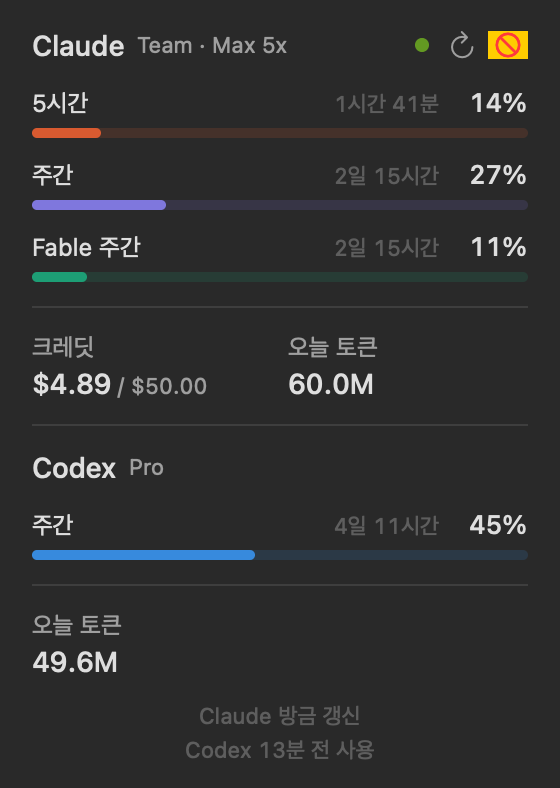
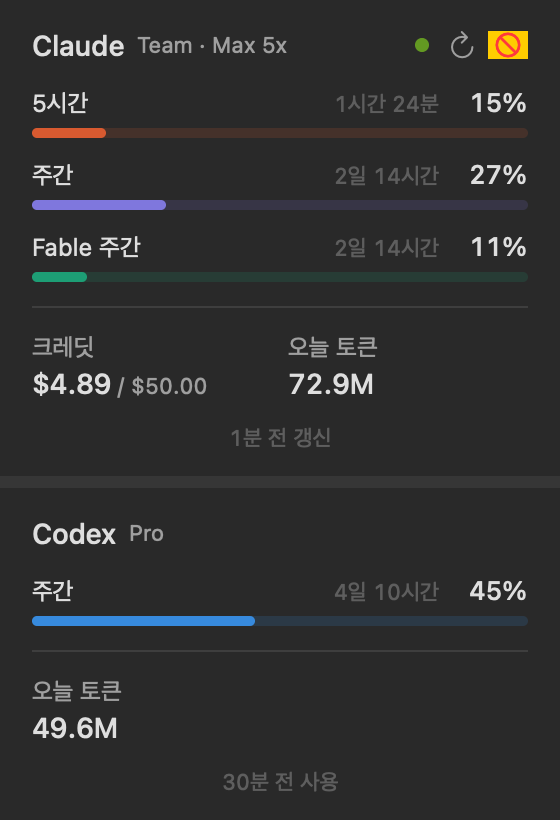
macOS: full-width band between services, status line at the end of each section

diff --git a/macos/Sources/ClaudeUsageBar/PanelView.swift b/macos/Sources/ClaudeUsageBar/PanelView.swift
@@ -1,8 +1,8 @@
 import SwiftUI
 import UsageCore
 
-/// 패널. 켜진 서비스마다 섹션 하나(Claude 위, Codex 아래, 사이에 가로선).
-/// 섹션 = 머리줄 + 한도(기본: 큰 도넛 + 작은 도넛 / 작게: 한도별 가로 막대) + 크레딧·오늘 토큰.
+/// 패널. 켜진 서비스마다 섹션 하나(Claude 위, Codex 아래, 사이에 패널 양끝까지 닿는 띠).
+/// 섹션 = 머리줄 + 한도(기본: 큰 도넛 + 작은 도넛 / 작게: 한도별 가로 막대) + 크레딧·오늘 토큰 + 상태 줄.
 /// 도넛·막대를 누르면 남은 시간 ↔ 리셋 시각이 바뀐다.
 struct PanelView: View {
     let store: UsageStore
@@ -28,14 +28,19 @@ struct PanelView: View {
                 section(claude, primary: true, controls: true, now: now)
             }
             if let codex {
-                if claude != nil { Divider().padding(.vertical, 12) }
+                if claude != nil { sectionBreak }
                 section(codex, primary: claude == nil, controls: claude == nil, now: now)
             } else if settings.showCodex && claude == nil {
                 emptyCodex
             }
-            footer(now: now).padding(.top, 12)
         }
         .padding(.horizontal, 16).padding(.top, 14).padding(.bottom, 12)
+    }
+
+    /// 섹션 사이 경계: 섹션 안의 가는 구분선과 구별되도록 패널 양끝까지 닿는 옅은 띠.
+    private var sectionBreak: some View {
+        Rectangle().fill(Color.primary.opacity(0.07)).frame(height: 6)
+            .padding(.horizontal, -16).padding(.top, 12).padding(.bottom, 14)
     }
 
     // MARK: - 섹션 모델
@@ -48,6 +53,8 @@ struct PanelView: View {
         var active: LimitRow?
         var stale: (LimitRow) -> Bool
         var stats: [(label: String, value: Text, help: String?)]
+        /// 섹션 끝 상태 줄(문구, 경고색 여부)
+        var note: (String, Bool)? = nil
     }
 
     private func claudeSection() -> Section {
@@ -55,7 +62,8 @@ struct PanelView: View {
         return Section(title: "Claude", plan: d.plan, dot: Palette.statusDot(d.status), rows: d.rows, active: d.active,
                        stale: { d.isStale($0) },
                        stats: [("크레딧", credit(d.credit), nil),
-                               ("오늘 토큰", Text(Format.tokens(store.tokens.total)), claudeTokenHelp)])
+                               ("오늘 토큰", Text(Format.tokens(store.tokens.total)), claudeTokenHelp)],
+                       note: FooterText.make(d, now: Date()))
     }
 
     private func codexSection() -> Section? {
@@ -68,8 +76,10 @@ struct PanelView: View {
             stats.append(("오늘 토큰", Text(Format.tokens(t.total)),
                           "입력 \(Format.tokens(t.input)) (캐시 \(Format.tokens(t.cachedInput))) · 출력 \(Format.tokens(t.output)) · 세션 \(t.sessions)개"))
         }
+        let ago = Format.ago(c.asOf, now: Date())
         return Section(title: "Codex", plan: c.plan, dot: nil, rows: c.rows, active: c.active,
-                       stale: { _ in c.isStale }, stats: stats)
+                       stale: { _ in c.isStale }, stats: stats,
+                       note: c.isStale ? ("\(ago) 값 · Codex를 쓰면 갱신돼요", true) : ("\(ago) 사용", false))
     }
 
     private var emptyCodex: some View {
@@ -111,6 +121,9 @@ struct PanelView: View {
                     }
                 }
                 .padding(.top, 12)
+            }
+            if let (text, warn) = s.note {
+                footerLine(text, warn: warn).frame(maxWidth: .infinity).padding(.top, 12)
             }
         }
     }
@@ -268,22 +281,7 @@ struct PanelView: View {
         return "입력 \(Format.tokens(t.input)) · 출력 \(Format.tokens(t.output)) · 캐시 쓰기 \(Format.tokens(t.cacheWrite)) · 캐시 읽기 \(Format.tokens(t.cacheRead)) · 메시지 \(t.messages)건"
     }
 
-    // MARK: - 맨 아래 줄
-
-    private func footer(now: Date) -> some View {
-        let both = settings.showClaude && settings.showCodex && store.codex != nil
-        return VStack(spacing: 3) {
-            if settings.showClaude {
-                let (line, warn) = FooterText.make(store.display, now: now)
-                footerLine(both ? "Claude " + line : line, warn: warn)
-            }
-            if settings.showCodex, let c = store.codex {
-                let ago = Format.ago(c.asOf, now: now)
-                footerLine(c.isStale ? "Codex \(ago) 값 · Codex를 쓰면 갱신돼요" : "Codex \(ago) 사용", warn: c.isStale)
-            }
-        }
-        .frame(maxWidth: .infinity)
-    }
+    // MARK: - 상태 줄
 
     private func footerLine(_ text: String, warn: Bool) -> some View {
         Text(text)

diff --git a/macos/docs/GUIDE.md b/macos/docs/GUIDE.md
@@ -71,13 +71,13 @@ ditto -c -k --keepParent ~/Applications/ClaudeUsageBar.app ClaudeUsageBar.zip
 
 ### 패널 (메뉴바 항목 클릭)
 
-켠 서비스마다 섹션이 하나씩 나옵니다. Claude가 위, 가로선 아래 Codex.
+켠 서비스마다 섹션이 하나씩 나옵니다. Claude가 위, 옅은 띠 아래 Codex.
 
 - **Claude 섹션**: 큰 도넛(지금 걸린 한도), 작은 도넛(나머지 한도), 크레딧(이번 달 사용액 / 월 한도), 오늘 토큰
 - **Codex 섹션**: 도넛(가장 높은 한도), 한도가 여러 개면 작은 도넛, 오늘 토큰
 - 도넛·막대를 누르면 **남은 시간 ↔ 리셋 시각**("9/30 (수) 04:00 리셋")이 바뀝니다
 - 오늘 토큰에 마우스를 올리면 입력·출력·캐시 분해가 보입니다
-- **맨 아래 줄**: 값이 언제 기준인지, 문제가 있으면 무슨 문제인지(아래 5장)
+- **각 섹션 맨 아래 줄**: 그 서비스 값이 언제 기준인지, 문제가 있으면 무슨 문제인지(아래 5장)
 - ⟳ 지금 갱신, ⋯ 설정·데이터 폴더·종료
 - 설정 → 패널 크기 → **작게**를 고르면 도넛 대신 한도별 가로 막대로 짧게 보여 줍니다
 
@@ -122,7 +122,7 @@ ditto -c -k --keepParent ~/Applications/ClaudeUsageBar.app ClaudeUsageBar.zip
 - **사용 속도 예측**: 지금 속도라면 60분 안에 한도에 닿을 때("이 속도면 약 30분 뒤 5시간 한도")
 - **추가 크레딧 사용**: 한도를 넘어 유료 크레딧이 쓰이기 시작하면(30분에 최대 한 번)
 
-## 5. 맨 아래 줄 메시지와 대처
+## 5. 섹션 맨 아래 줄 메시지와 대처
 
 | 메시지 | 뜻 | 할 일 |
 |---|---|---|

diff --git a/macos/README.md b/macos/README.md
@@ -39,7 +39,7 @@ swift test                      # 단위 테스트
 - 메뉴바 항목 하나에 켜진 서비스를 이어서 표시: `◔ 13 · 27 · 11  ◔ 45` (Claude · Codex)
   - Claude 조각은 형식 4종(① 도넛만 / ② 도넛 + 숫자 / ③ 미니 도넛 3개 / ④ 도넛 + 숫자 3개, 기본 ④), Codex 조각은 도넛 + 가장 높은 %
   - ③·④가 노치 뒤로 가려지면 ②로 자동 축소
-- 패널: 서비스마다 섹션(Claude 위, Codex 아래). 섹션 안에 한도 + 크레딧·오늘 토큰
+- 패널: 서비스마다 섹션(Claude 위, Codex 아래, 사이에 띠). 섹션 안에 한도 + 크레딧·오늘 토큰 + 상태 줄
   - 패널 크기: 기본(도넛) / 작게(한도별 가로 막대)
   - 도넛·막대를 누르면 남은 시간 ↔ 리셋 시각 전환
 - 표시할 서비스: Claude / Codex 각각 켜고 끄기. 처음에는 `~/.claude`, `~/.codex/sessions`가 있는지로 자동 결정. Claude를 끄면 키체인·API에 접근하지 않음
